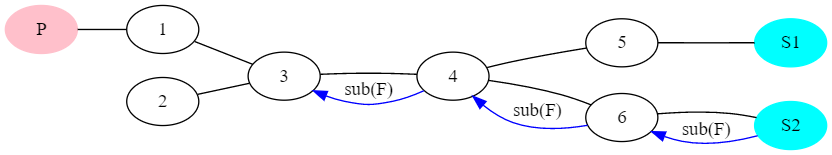
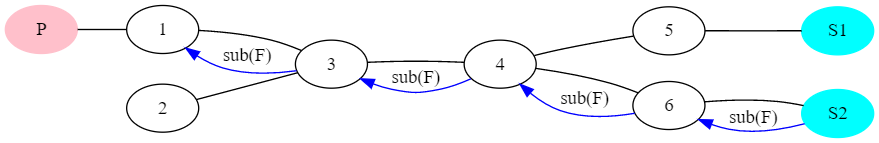
Corrected S2 subscription forwarding

diff --git a/theory/ex6/ex6.md b/theory/ex6/ex6.md
@@ -266,7 +266,13 @@ T<sub>S</sub> tables of routers after subscription of S1 was forwarded through t
     * Forward subscription to 3.
 * Step 2.3:
   * Router 3 already has the subscription in its T<sub>S</sub> table
-    * No forwarding required
+    * Algorithm *could* stop here - but on the slides there is no such condition.
+  * Lookup (D, F) pairs in T<sub>A</sub>: Found pair (1, F)
+    * Forward subscription to 1.
+* Step 2.4:
+  * Router 1 already has the subscription in its T<sub>S</sub> table
+  * Lookup matching (D, F) pairs in T<sub>A</sub>: None found
+    * No further forwarding.
 
 Flow of S2 subscription forwardings:
 ![Subscription S2 forwarding][subscription_flow2]
